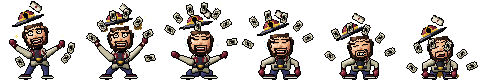
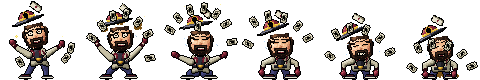
Close the skin gap in Josh's beard
The goatee is now one solid mass instead of a moustache and a chin beard
split by a band of skin, which at portrait scale read as a bald spot.
The same gap was visible on the sprite sheets at 3x, so both are fixed:
the moustache is a lighter shading step rather than a separation, and
every mouth now reads by contrast - a black frame with bright teeth -
against hair instead of against skin.

diff --git a/art_source/josh_cards/jhead.py b/art_source/josh_cards/jhead.py
@@ -106,13 +106,17 @@ HAIR = [
 
 # ---------------------------------------------------------------- expressions
 GOATEE = [
+    # ONE SOLID MASS from the moustache down around the mouth into the chin beard.  It used to be
+    # a ring with his upper lip showing through the middle, which at 3x split the goatee into two
+    # disconnected dark blobs.  The moustache half is a step lighter than the chin beard, so the
+    # two still read apart without any skin between them.
     (34, 37, ["hkkkkkkkkkkkh"]),
-    (34, 38, ["kk.........kk"]),
-    (34, 39, ["k...........k"]),
-    (34, 40, ["k...........k"]),
-    (34, 41, ["k...........k"]),
-    (34, 42, ["k...........k"]),
-    (34, 43, ["kk.........kk"]),
+    (34, 38, ["kHHHHHHHHHHHk"]),
+    (34, 39, ["kHHHHHHHHHHHk"]),
+    (34, 40, ["khhhhhhhhhhhk"]),
+    (34, 41, ["khhhhhhhhhhhk"]),
+    (34, 42, ["khhhhhhhhhhhk"]),
+    (34, 43, ["kkhhhhhhhhhkk"]),
     (35, 44, ["hkkkkHkkkkh"]),
     (36, 45, ["hkkkkkkkh"]),
     (38, 46, ["hkkkh"]),
@@ -120,25 +124,26 @@ GOATEE = [
 MOUSTACHE = []
 SOULPATCH = []
 
+# The mouth sits inside that mass now, so it has to read by CONTRAST rather than by a skin gap:
+# a black slit with bright teeth in it.  Checked at 3x - the teeth are what carries each one.
 MOUTHS = {
     'smirk': [
-        (43, 39, ["##"]),
-        (40, 40, ["####"]),
-        (36, 41, ["#####ww#"]),
-        (36, 42, ["########"]),
+        (37, 40, ["#######"]),
+        (37, 41, ["#mwWwm#"]),
+        (37, 42, ["#######"]),
     ],
     'open': [
         (36, 39, ["#########"]),
-        (35, 40, ["#wwWwwWww#"]),
-        (35, 41, ["#mmmMmmmm#"]),
+        (36, 40, ["#wwWwwWw#"]),
+        (36, 41, ["#mmmMmmm#"]),
         (36, 42, ["#########"]),
     ],
     'pant': [
         (37, 39, ["#######"]),
-        (36, 40, ["#wwWww#"]),
-        (36, 41, ["#mMMmm#"]),
-        (36, 42, ["#mmmmm#"]),
-        (37, 43, ["#####"]),
+        (37, 40, ["#wwWww#"]),
+        (37, 41, ["#mMMmm#"]),
+        (37, 42, ["#mmmmm#"]),
+        (38, 43, ["#####"]),
     ],
     'grit': [
         (36, 39, ["#########"]),
@@ -148,12 +153,12 @@ MOUTHS = {
     ],
     'slack': [
         (37, 40, ["#######"]),
-        (36, 41, ["#mmmmmm#"]),
+        (37, 41, ["#WmmmW#"]),
         (37, 42, ["#######"]),
     ],
     'flat': [
-        (36, 41, ["#########"]),
-        (37, 42, ["ddddddd"]),
+        (37, 41, ["#######"]),
+        (37, 42, ["#WWWWW#"]),
     ],
 }
 

diff --git a/art_source/josh_cards/portrait.py b/art_source/josh_cards/portrait.py
@@ -109,24 +109,28 @@ EYES = [
 NOSE = [(31, 40, ["sd"]), (30, 41, ["asdf"]), (30, 42, ["asdf"]), (31, 43, ["ff"])]
 BLUSH = [(23, 42, ["rrr"]), (39, 42, ["rr"])]
 
-# full dark goatee: moustache curving into a chin beard, soul patch under the lip
+# Full dark goatee, drawn as ONE SOLID MASS - the moustache runs unbroken down around the mouth
+# into the chin beard.  It used to be a ring with the skin of his upper lip showing through the
+# middle, which at portrait scale read as a bald patch in the beard rather than as separation.
+# The moustache half is a step lighter than the chin beard so the two still read apart.
 GOATEE = [
     (26, 44, ["hkkkkkkkkkkkh"]),
-    (26, 45, ["kkh.......hkk"]),
-    (26, 46, ["kk.........kk"]),
-    (26, 47, ["kk.........kk"]),
-    (26, 48, ["kk.........kk"]),
-    (26, 49, ["kkh.......hkk"]),
-    (27, 50, ["hkkkHHkkkkkh"]),
+    (26, 45, ["kHHHHHHHHHHHk"]),
+    (26, 46, ["kHHHHHHHHHHHk"]),
+    (26, 47, ["khhhhhhhhhhhk"]),
+    (26, 48, ["khhhhhhhhhhhk"]),
+    (26, 49, ["kkhhhhhhhhhkk"]),
+    (27, 50, ["hkkHHkkkkkkh"]),
     (28, 51, ["hkkkkkkkkh"]),
     (29, 52, ["hkkkkkkh"]),
     (31, 53, ["hkkh"]),
 ]
+# The mouth now sits inside that mass, so it reads by CONTRAST instead of by a skin gap: a black
+# slit with a dark interior and a glint of tooth.
 MOUTH = [
-    (35, 46, ["##"]),
-    (32, 47, ["####"]),
-    (28, 48, ["#####ww#"]),
-    (28, 49, ["########"]),
+    (29, 47, ["#######"]),
+    (29, 48, ["#mmwWm#"]),
+    (29, 49, ["#######"]),
 ]
 
 # ---------------------------------------------------------------- hat
